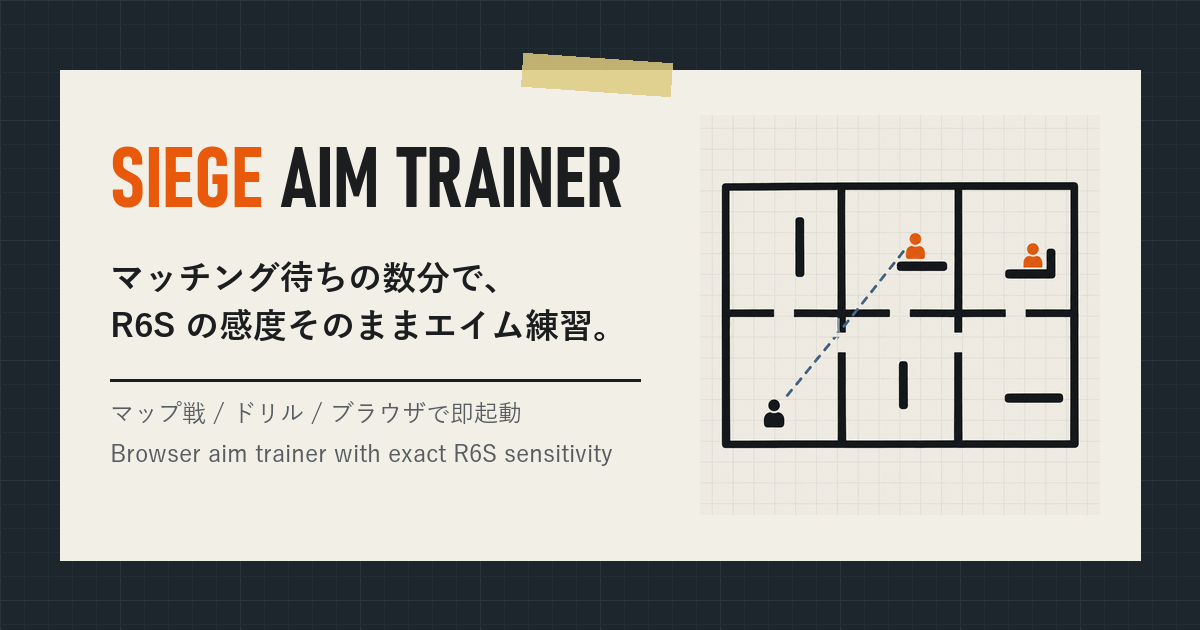
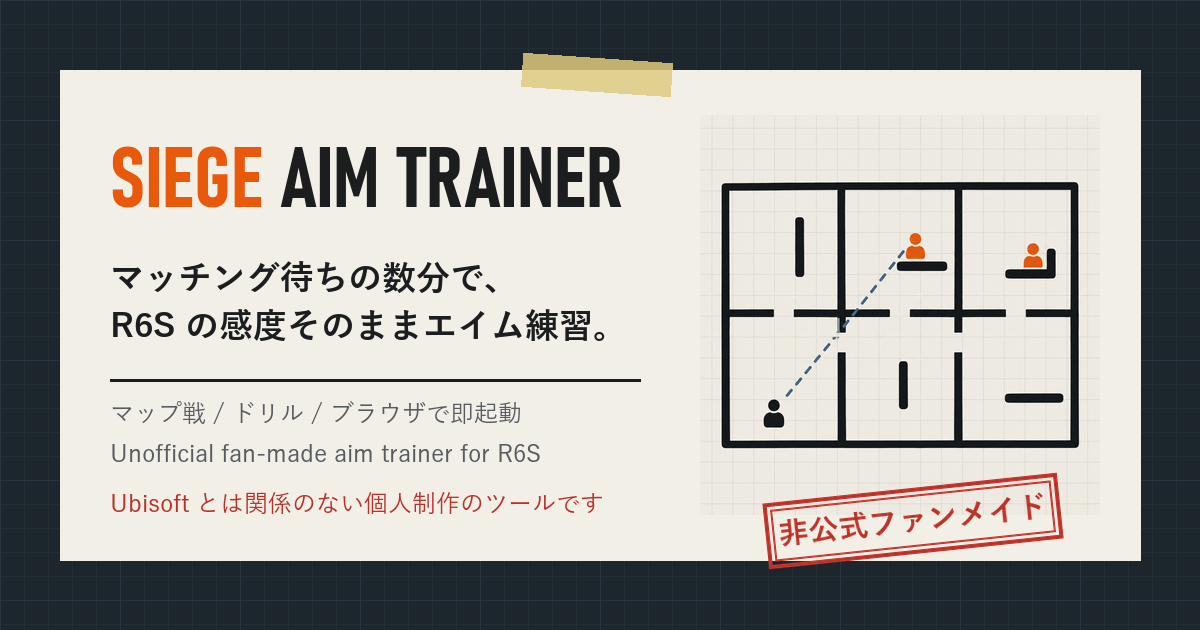
Make the unofficial status prominent; deploy with a write-only key
- Header stamp "非公式 / UNOFFICIAL" with a one-line notice, page/OG titles
  and description say unofficial, footer disclaimer brighter, OGP card
  carries a "非公式ファンメイド" stamp.
- The deploy key is now restricted on the server to rrsync -wo into
  /R6SAIM, so the workflow targets ./ relative to that folder.

Changed region(s): [[0.6167, 0.754, 0.8942, 0.9048], [0.0925, 0.6937, 0.5242, 0.754], [0.0925, 0.7841, 0.4933, 0.8143]]

diff --git a/index.html b/index.html
@@ -3,11 +3,11 @@
 <head>
 <meta charset="utf-8">
 <meta name="viewport" content="width=device-width, initial-scale=1">
-<title>SIEGE AIM TRAINER — R6S Aim Trainer</title>
+<title>SIEGE AIM TRAINER｜非公式 R6S エイムトレーナー</title>
 <meta name="description" content="R6S(レインボーシックス シージ)の感度・ADS倍率・移動・リコイルを再現したブラウザ動作のエイムトレーナー / Browser aim trainer with exact R6S sensitivity, movement and recoil">
 <meta property="og:type" content="website">
-<meta property="og:title" content="SIEGE AIM TRAINER — R6S Aim Trainer">
-<meta property="og:description" content="マッチング待ちの数分で。R6S の感度をそのまま入れて、ブラウザで即起動するエイム練習。マップ戦とドリル。">
+<meta property="og:title" content="SIEGE AIM TRAINER（非公式ファンメイド）">
+<meta property="og:description" content="Ubisoft 非公式のファンメイドツール。マッチング待ちの数分で、R6S の感度をそのまま入れてブラウザで即起動するエイム練習。マップ戦とドリル。">
 <meta property="og:url" content="https://xs288120.xsrv.jp/R6SAIM/">
 <meta property="og:image" content="https://xs288120.xsrv.jp/R6SAIM/img/ogp.png">
 <meta property="og:image:width" content="1200">
@@ -51,7 +51,8 @@
   <div class="bg"></div>
   <header>
     <div class="title-strip">
-      <div class="logo"><span class="brand">SIEGE</span> AIM TRAINER</div>
+      <div class="logo"><span class="brand">SIEGE</span> AIM TRAINER<span class="unofficial" data-i18n="hdr.unofficial"></span></div>
+      <div class="unofficial-d" data-i18n="hdr.unofficial.d"></div>
       <div class="sub" data-i18n="hdr.sub"></div>
       <div class="spec" data-i18n="hdr.spec"></div>
     </div>
@@ -266,7 +267,7 @@
   </div>
 
   <footer>
-    <span data-i18n="footer"></span>
+    <span class="disclaimer" data-i18n="footer"></span>
     · <a href="https://github.com/raychil0328/https-github.com-inoueyuta0328-beep-siege-aim-lab" target="_blank" rel="noopener">GitHub</a>
     <a id="donate-footer" class="donate hidden" href="#" target="_blank" rel="noopener"></a>
   </footer>

diff --git a/i18n.js b/i18n.js
@@ -1,7 +1,8 @@
 /* UI strings. Elements carry data-i18n="key" (textContent) or data-i18n-html="key" (innerHTML); JS uses t(key). */
 const I18N = {
   ja: {
-    'title': 'SIEGE AIM TRAINER — R6S Aim Trainer',
+    'title': 'SIEGE AIM TRAINER｜非公式 R6S エイムトレーナー',
+    'hdr.unofficial': '非公式', 'hdr.unofficial.d': 'Ubisoft 公式のツールではありません。ファンが個人で作った非公式のトレーナーです。',
     'hdr.sub': 'R6S の感度・移動・リコイルを再現したエイム練習。マッチング待ちの数分に、ブラウザですぐ始めてすぐ終われます。',
     'ms.combat': 'MAP COMBAT', 'ms.combat.d': '室内マップを動き回り、カバーから顔を出す BOT と撃ち合う。移動とリコイルあり。',
     'ms.drills': 'DRILLS', 'ms.drills.d': 'その場で動く的を追い続ける。リコイルなし、追えていた時間で採点。',
@@ -66,7 +67,8 @@ cm/360  = 2.54 × 360 / (yaw × DPI)`,
     'mode.microdot.desc': '小さなヘッド大のターゲットが細かく揺れる。ADS での微調整。',
   },
   en: {
-    'title': 'SIEGE AIM TRAINER — R6S Aim Trainer',
+    'title': 'SIEGE AIM TRAINER | Unofficial R6S aim trainer',
+    'hdr.unofficial': 'UNOFFICIAL', 'hdr.unofficial.d': 'Not an official Ubisoft product. A fan-made trainer built by an individual.',
     'hdr.sub': 'Aim practice with R6S sensitivity, movement and recoil. Starts and stops instantly in the browser, made for the minutes spent waiting in matchmaking.',
     'ms.combat': 'MAP COMBAT', 'ms.combat.d': 'Move through indoor rooms and trade shots with bots peeking from cover. Movement and recoil on.',
     'ms.drills': 'DRILLS', 'ms.drills.d': 'Keep your crosshair on moving targets. No recoil, scored by time on target.',

diff --git a/style.css b/style.css
@@ -51,6 +51,8 @@ kbd{font-family:var(--mono);font-size:11px;color:var(--ink);background:var(--pap
 .title-strip::before{content:"";position:absolute;left:-14px;top:10px;width:58px;height:20px;background:var(--tape);transform:rotate(-38deg)}
 .logo{font-family:var(--disp);font-size:44px;line-height:1;letter-spacing:.04em;color:var(--ink)}
 .logo .brand{color:var(--orange)}
+.logo .unofficial{display:inline-block;vertical-align:middle;margin-left:16px;font-family:var(--body);font-weight:700;font-size:15px;letter-spacing:.08em;color:var(--stamp);border:3px double var(--stamp);padding:2px 10px;transform:rotate(-6deg) translateY(-4px)}
+.unofficial-d{font-size:12.5px;font-weight:700;color:var(--stamp);margin-top:8px}
 .sub{font-size:12.5px;color:var(--ink);margin-top:8px;line-height:1.6}
 .spec{font-family:var(--mono);font-size:11px;color:var(--ink2);margin-top:4px}
 .tools{display:flex;gap:10px;align-items:center;padding-top:6px}
@@ -124,6 +126,7 @@ button.small{font-size:11.5px;padding:4px 10px}
 
 footer{text-align:center;color:var(--chalk-dim);font-size:11.5px;margin-top:28px}
 footer a{color:var(--chalk)}
+footer .disclaimer{color:var(--chalk);font-size:12.5px}
 .donate{display:inline-block;margin-left:10px;padding:3px 10px;border:1px solid currentColor;color:var(--orange);text-decoration:none;font-size:12px}
 #results .donate{margin:14px auto 0}
 #results .donate.hidden{display:none}

diff --git a/tools/build_images.py b/tools/build_images.py
@@ -57,10 +57,18 @@ jp_b = ImageFont.truetype(F + "YuGothB.ttc", 34)
 jp = ImageFont.truetype(F + "YuGothM.ttc", 24)
 d.text((110, 140), "SIEGE", font=disp, fill=ORANGE)
 d.text((110 + d.textlength("SIEGE ", font=disp), 140), "AIM TRAINER", font=disp, fill=INK)
+# "unofficial" stamp: the card gets shared without the page around it, so it has to say so itself
+stamp_font = ImageFont.truetype(F + "YuGothB.ttc", 30)
+st = Image.new("RGBA", (300, 70), (0, 0, 0, 0)); sd = ImageDraw.Draw(st)
+sd.rectangle([2, 2, 297, 67], outline="#b8322a", width=4); sd.rectangle([9, 9, 290, 60], outline="#b8322a", width=2)
+sd.text((150, 35), "非公式ファンメイド", font=stamp_font, fill="#b8322a", anchor="mm")
+st = st.rotate(6, expand=True, resample=Image.BICUBIC)
+card.paste(st, (760, 470), st)
 d.text((110, 260), "マッチング待ちの数分で、", font=jp_b, fill=INK)
 d.text((110, 308), "R6S の感度そのままエイム練習。", font=jp_b, fill=INK)
 d.line([(110, 380), (640, 380)], fill=INK, width=3)
 d.text((110, 400), "マップ戦 / ドリル / ブラウザで即起動", font=jp, fill=INK2)
-d.text((110, 440), "Browser aim trainer with exact R6S sensitivity", font=jp, fill=INK2)
+d.text((110, 440), "Unofficial fan-made aim trainer for R6S", font=jp, fill=INK2)
+d.text((110, 490), "Ubisoft とは関係のない個人制作のツールです", font=jp, fill="#b8322a")
 card.save(OUT / "ogp.png", optimize=True)
 print("ogp.png:", (OUT / "ogp.png").stat().st_size // 1024, "KB")
